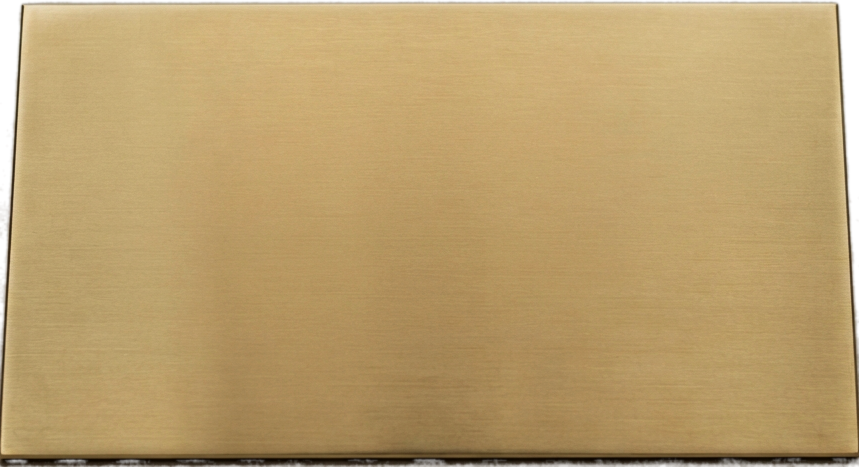
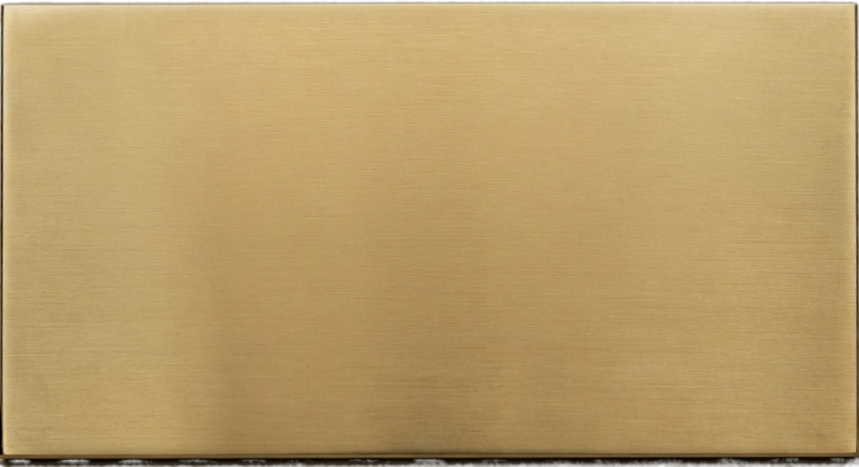
wall page: square the sagne plate
Her catch, and it measured out: the plate was stood on a bench and shot slightly
from above, so it tapered -- 39px wider at the bottom than the top, the left side
leaning 24px over its height and the right 22. Neither was upright.

tools/wall.py now fits a straight line to each side and pulls every row out to the
full width, so the sides stand vertical. The brass's own shading and its four
screws come with it.

Claude-Session: https://claude.ai/code/session_01YRJXk3Jc77PyvXnAuQwEma

diff --git a/tools/wall.py b/tools/wall.py
@@ -147,5 +147,28 @@ if __name__ == '__main__':
     al = np.clip(((w[:,:,0]-w[:,:,2])-14)/12.0, 0, 1)
     msk = Image.fromarray((al*255).astype(np.uint8)).filter(ImageFilter.GaussianBlur(0.8))
     dim = 255.0*np.power(np.clip(w/255.0,0,1), 1.30)*0.92     # her call: it was glary
-    out = Image.fromarray(np.dstack([np.clip(dim,0,255), np.asarray(msk)]).astype(np.uint8), 'RGBA')
-    out.save('sagne-plate.png');  print(f'   wrote sagne-plate.png  {out.size[0]}x{out.size[1]}')
+    # The plate was stood on a bench and shot slightly from above, so it tapers --
+    # its bottom edge is wider than its top and neither side is upright. Her catch.
+    # Fit a straight line to each side and pull every row out to the full width, so
+    # the sides stand vertical. The brass's own shading and its screws come with it.
+    rgba = np.dstack([np.clip(dim,0,255), np.asarray(msk)]).astype(np.float64)
+    A = rgba[:,:,3]; hh, ww = A.shape
+    ys, ls, rs = [], [], []
+    for y in range(hh):
+        on = np.where(A[y] > 140)[0]
+        if len(on) > ww*0.5: ys.append(y); ls.append(on.min()); rs.append(on.max())
+    ys = np.array(ys, float)
+    lm, lc = np.polyfit(ys, np.array(ls, float), 1)
+    rm, rc = np.polyfit(ys, np.array(rs, float), 1)
+    sq = np.zeros_like(rgba)
+    for y in range(hh):
+        L, R = lm*y + lc, rm*y + rc
+        if R - L < 2: continue
+        xs = L + (R - L) * (np.arange(ww) / (ww - 1.0))
+        i0 = np.clip(np.floor(xs).astype(int), 0, ww-1); i1 = np.clip(i0+1, 0, ww-1)
+        f = (xs - i0)[:, None]
+        sq[y] = rgba[y][i0]*(1-f) + rgba[y][i1]*f
+    out = Image.fromarray(np.clip(sq,0,255).astype(np.uint8), 'RGBA')
+    out.save('sagne-plate.png')
+    print(f'   wrote sagne-plate.png  {out.size[0]}x{out.size[1]}  (sides squared: '
+          f'left leaned {lm*hh:+.1f}px, right {rm*hh:+.1f}px over its height)')
